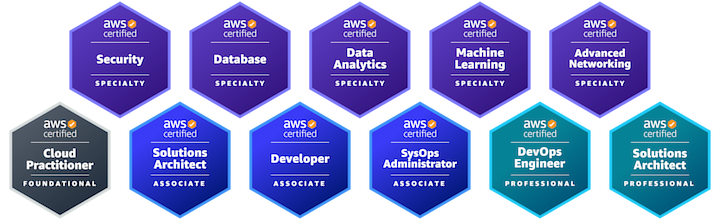
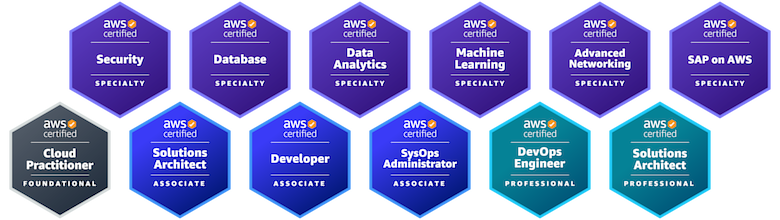
12x Certified

diff --git a/README.md b/README.md
@@ -1,6 +1,6 @@
 Hi there, I'm Shigeki Shoji.
 
-Cloud Consultant | Cloud Solutions Architect | Translator | Speaker | 11X AWS Certified
+Cloud Consultant | Cloud Solutions Architect | Translator | Speaker | 12X AWS Certified
 
 <a href="https://aws.amazon.com/jp/blogs/psa/2023-japan-aws-top-engineers/"><img src="https://github.com/edward-mamezou/edward-mamezou/raw/main/2023JapanAWSTopEngineers-logo_light.png" width="360px"></a>
 
